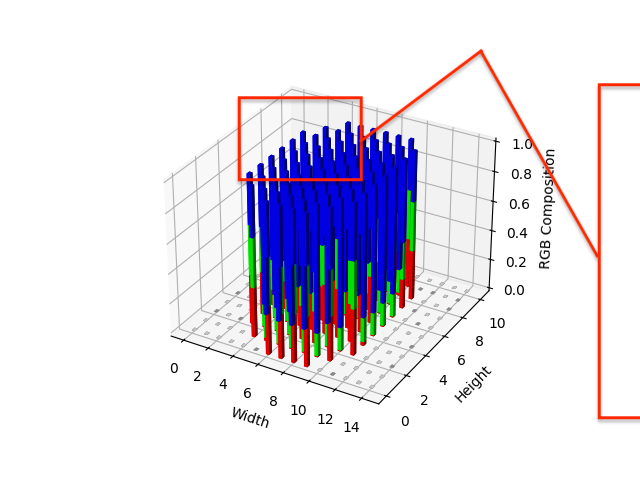
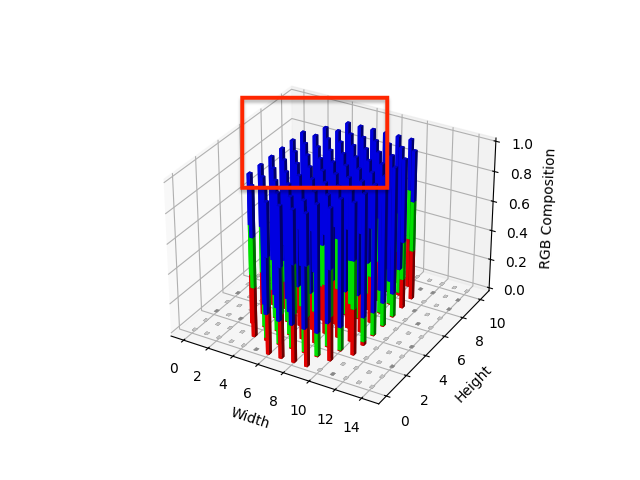
layout changes

diff --git a/templates/visualize3.html b/templates/visualize3.html
@@ -90,7 +90,8 @@
     </div>
     <div class="cell">
         <img src="{{url_for('static', filename='assets/img/rows/12.png')}}" alt="Photo 2">
-        <div class="description">3d bar segments analysis of image in matplotlib, downsampling every 4 pixels</div>
+        <div class="description">3d bar segments analysis of image in matplotlib, downsampling every 4 pixels, magnified
+            on next schematic</div>
     </div>
     <div class="cell">
         <img src="{{url_for('static', filename='assets/img/rows/13.png')}}" alt="Photo 3">
@@ -180,9 +181,9 @@
 
 <div class="container mt-4 mb-2 py-2">
     <div class="row justify-content-center">
-        <div class="px-1 mb-2"><a class="btn btn-primary" href="{{url_for('home')}}">Home</a></div>
-        <div class="px-1 mb-2"><a class="btn btn-primary" href="{{url_for('upload')}}">Try now!</a></div>
-        <div class="px-1 mb-2"><a class="btn btn-primary" href="{{url_for('visualize2')}}">Visualize ChartPlot</a></div>
+        <div class="px-1 mb-2"><a class="btn btn-primary btn-r" href="{{url_for('home')}}">Home</a></div>
+        <div class="px-1 mb-2"><a class="btn btn-primary btn-g" href="{{url_for('upload')}}">Try now!</a></div>
+        <div class="px-1 mb-2"><a class="btn btn-primary btn-b" href="{{url_for('visualize2')}}">Visualize ChartPlot</a></div>
     </div>
 </div>
 

diff --git a/static/styles/styles.css b/static/styles/styles.css
@@ -30,12 +30,18 @@
             box-sizing: border-box;
             font-family: Arial, sans-serif;
         }
+        footer {
+            font-size: 0.7rem;
+        }
         img {
             width: 350px;
             max-width: 100%;
             height: auto;
             display: block;
             margin: 0 auto;
+        }
+        a {
+            color: #fc2408;
         }
 
         .description {
@@ -107,11 +113,29 @@
         }
 
 
-        @media (max-width: 768px) {
+        @media (max-width: 800px) {
             .cell {
             flex: 0 0 calc(100% - 20px);
                     }
         }
         .row p {font-size:0.9rem;}
+
+        .btn-r {
+        background: #ff0000;
+        border-color: #ff0000;
+        }
+
+        .btn-g {
+        background: #00ff00;
+        border-color: #00ff00;
+        }
+
+        .btn-b {
+        background: #0000ff;
+        border-color: #0000ff;
+        }
+
+
+
 
 

diff --git a/templates/index.html b/templates/index.html
@@ -69,9 +69,9 @@
 
 <div class="container mt-4 mb-2 py-2">
     <div class="row justify-content-center">
-        <div class="px-1 mb-2"><a class="btn btn-primary" href="{{url_for('upload')}}">Try now!</a></div>
-        <div class="px-1 mb-2"><a class="btn btn-primary" href="{{url_for('visualize3')}}">Visualize BarPlot</a></div>
-        <div class="px-1 mb-2"><a class="btn btn-primary" href="{{url_for('visualize2')}}">Visualize ChartPlot</a></div>
+        <div class="px-1 mb-2"><a class="btn btn-primary btn-r" href="{{url_for('upload')}}">Try now!</a></div>
+        <div class="px-1 mb-2"><a class="btn btn-primary btn-g" href="{{url_for('visualize3')}}">Visualize BarPlot</a></div>
+        <div class="px-1 mb-2"><a class="btn btn-primary btn-b" href="{{url_for('visualize2')}}">Visualize ChartPlot</a></div>
     </div>
 </div>
 

diff --git a/templates/visualize2.html b/templates/visualize2.html
@@ -304,9 +304,9 @@
 
 <div class="container mt-4 mb-2 py-2">
     <div class="row justify-content-center">
-        <div class="px-1 mb-2"><a class="btn btn-primary" href="{{url_for('home')}}">Home</a></div>
-        <div class="px-1 mb-2"><a class="btn btn-primary" href="{{url_for('upload')}}">Try now!</a></div>
-        <div class="px-1 mb-2"><a class="btn btn-primary" href="{{url_for('visualize3')}}">Visualize BarPlot</a></div>
+        <div class="px-1 mb-2"><a class="btn btn-primary btn-r" href="{{url_for('home')}}">Home</a></div>
+        <div class="px-1 mb-2"><a class="btn btn-primary btn-g" href="{{url_for('upload')}}">Try now!</a></div>
+        <div class="px-1 mb-2"><a class="btn btn-primary btn-b" href="{{url_for('visualize3')}}">Visualize BarPlot</a></div>
     </div>
 </div>
 {% include 'footer.html' %}

diff --git a/templates/result.html b/templates/result.html
@@ -17,8 +17,10 @@
         <h2 style="">RGB Online Chart Results</h2>
     </div>
     <div style="font-size:0.8rem; padding-bottom:20px;">Due to different definitions of height and width, your photo analysis <u>could</u> be
-        rotated, for instance some portrait photos taken on iPhones, if so go <a href="{{url_for('upload')}}">back</a> and click reverse instead of
-        submit.
+        rotated, for instance some portrait photos taken on iPhones, if so:<br>
+        Go <a href="{{url_for('upload')}}">back</a> and click reverse instead of
+        submit.<br>
+        On mobile devices charts are best viewed in landscape mode.
     </div>
 </div>
 

diff --git a/templates/footer.html b/templates/footer.html
@@ -1,7 +1,7 @@
 <footer class="footer pt-3 pb-3">
     <div class="container">
         <div class="row">
-            <div class="col-md-6 order-md-1 order-2 text-md-left" style="font-size: 12px;">© What is a pixel? <span
+            <div class="col-md-6 order-md-1 order-2 text-md-left">©What is a pixel? <span
                     id="currentYear">2023</span></div>
             <div class="col-md-6 order-md-2 order-1 text-md-right" id="currentDateTime" style="font-size:14px;">Dec 25,
                 2023 11:08 PM

diff --git a/main.py b/main.py
@@ -17,7 +17,7 @@ class UploadForm(FlaskForm):
                      validators=[
                          FileRequired(),
                          FileAllowed(['jpg', 'jpeg', 'png'], message='Image is not .JPG or .JPEG or .PNG'),
-                         FileSize(max_size=3.0 * 1024 * 1024, message='Image must be less than 2.5 MB')
+                         FileSize(max_size=2.5 * 1024 * 1024, message='Image must be less than 2.5 MB')
                      ])
     down_sampler = IntegerField("Sampler Factor",
                                 description="Enter a value for down sampling.",
